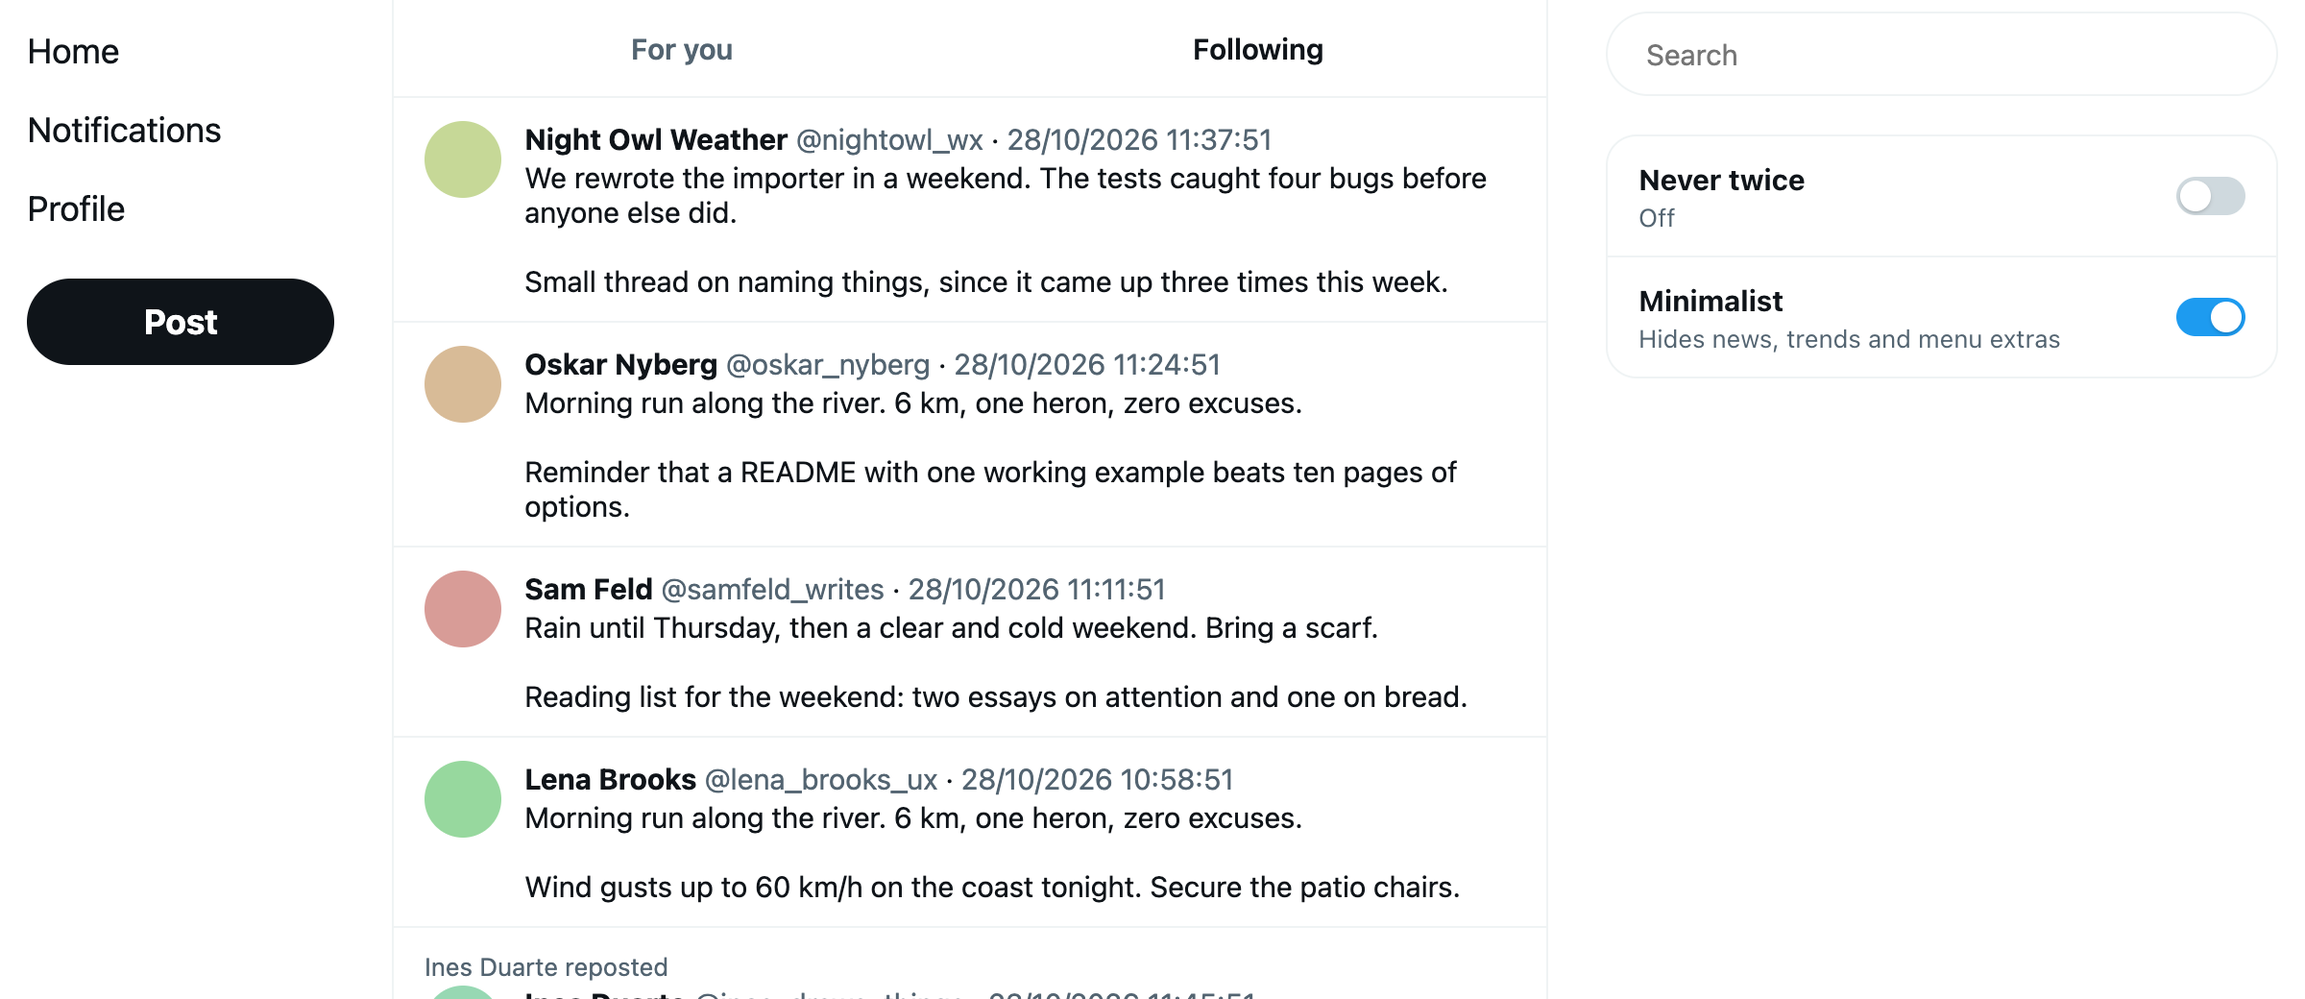
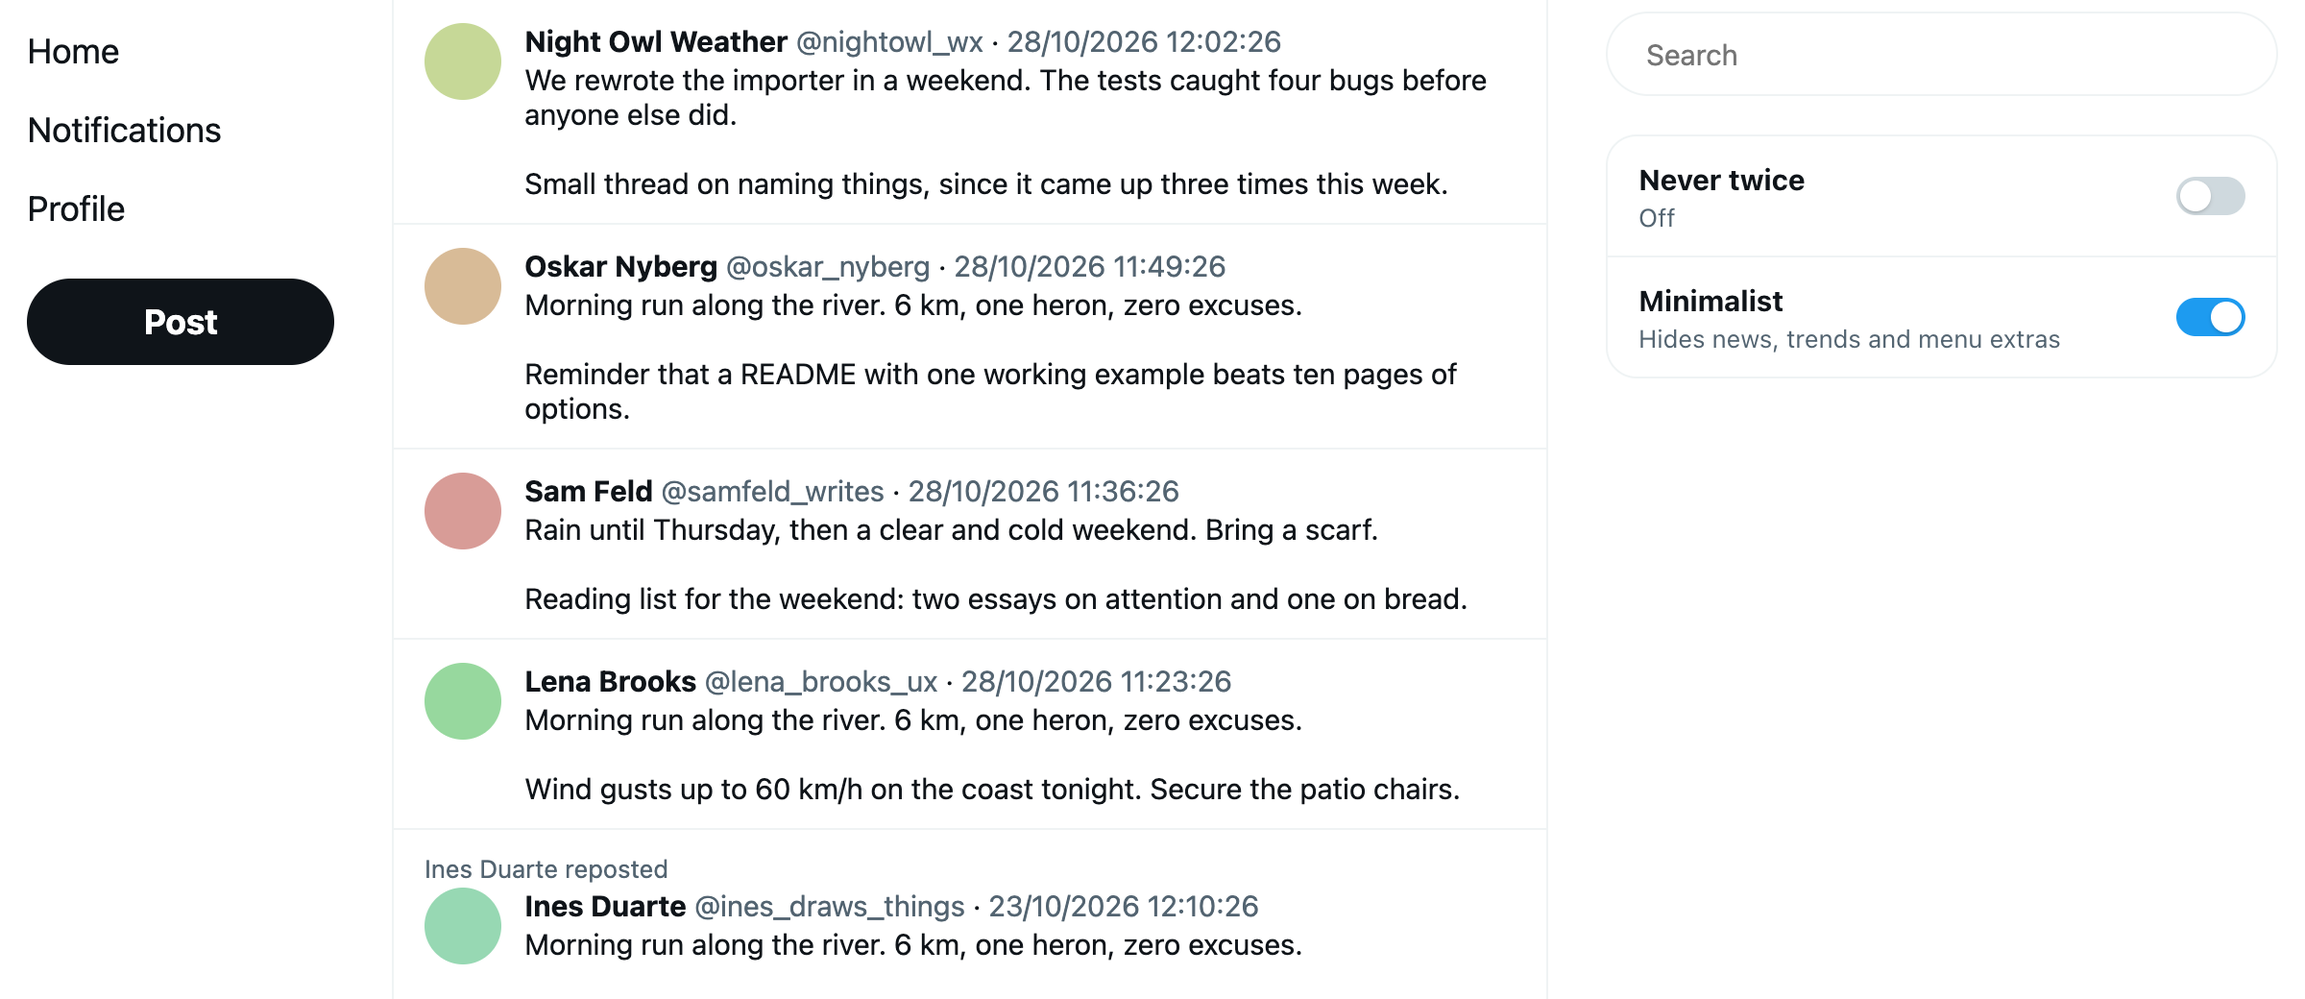
Minimalist hides Home's tab bar and keeps Home on Following
With Minimalist on, Home's tab bar (For you, Following, pinned lists, +)
is hidden before it is painted, and Following is clicked when another tab
is open, before X draws a post; X then remembers Following. The bar is
found by size, so a narrow window keeps X's top bar.

A copy that steps aside no longer throws when another tab changes the
switches.

Changed region(s): [[0.1875, 0.4615, 0.625, 1.0], [0.1875, 0.0, 0.6562, 0.4308], [0.4375, 0.9846, 0.5312, 1.0]]

diff --git a/dev/x-mock.html b/dev/x-mock.html
@@ -19,9 +19,16 @@
   [data-testid=primaryColumn] { width: 600px; min-height: 100vh; border-left: 1px solid var(--line); border-right: 1px solid var(--line); }
   [data-testid=sidebarColumn] { width: 350px; padding-top: 6px; }
   .sticky { position: sticky; top: 0; }
-  .tabs { display: flex; border-bottom: 1px solid var(--line); position: sticky; top: 0; background: var(--bg); z-index: 1; }
-  .tabs [role=tab] { flex: 1; text-align: center; padding: 16px; font-weight: 600; color: var(--muted); }
-  .tabs [aria-selected=true] { color: var(--fg); }
+  .head { position: sticky; top: 0; z-index: 1; }
+  .head .blur { position: absolute; inset: 0; background: color-mix(in srgb, var(--bg) 85%, transparent); backdrop-filter: blur(12px); }
+  .head .top { position: relative; height: 53px; display: flex; align-items: center; justify-content: center; font-size: 22px; }
+  .tabsrow { position: relative; display: flex; align-items: center; border-bottom: 1px solid var(--line); }
+  .tabsrow .fill { flex: 1; }
+  [role=tablist] { display: flex; }
+  [role=presentation] { flex: 1; }
+  [role=tab] { display: block; text-align: center; padding: 16px; font-weight: 600; color: var(--muted); text-decoration: none; }
+  [role=tab][aria-selected=true] { color: var(--fg); }
+  .manage button { all: unset; padding: 0 16px; font-size: 22px; color: var(--muted); cursor: pointer; }
   [data-testid=cellInnerDiv] { border-bottom: 1px solid var(--line); padding: 12px 16px; }
   article { display: flex; gap: 12px; }
   .av { width: 40px; height: 40px; border-radius: 50%; background: var(--line); flex: none; }
@@ -58,10 +65,11 @@
     <button data-testid="SideNav_AccountSwitcher_Button" aria-label="Account menu">You</button>
   </header>
   <main data-testid="primaryColumn">
-    <div role="tablist" class="tabs"><a role="tab" aria-selected="false">For you</a><a role="tab" aria-selected="true">Following</a></div>
+    <div aria-label="Home timeline" id="home">
     <div id="list"></div>
     <div id="sentinel" style="height: 1px"></div>
-    <div id="spinner" class="end">Loading…</div>
+    <div id="spinner" class="end" role="progressbar">Loading…</div>
+    </div>
   </main>
   <div data-testid="sidebarColumn"><div class="sticky"><div aria-label="Trending"><div id="side">
     <div style="position: fixed; top: 0; width: 350px; padding-top: 6px; background: var(--bg); z-index: 2"><div><form role="search"><input placeholder="Search"></form></div></div>
@@ -95,7 +103,42 @@
     side.insertBefore(t.cloneNode(true), wtf);
     t.remove();
   }, 1200);
-  const M = (window.__mock = { entries: [], atBottom: false, loading: false, requests: 0, inserted: 0, removed: 0 });
+  const M = (window.__mock = { entries: [], atBottom: false, loading: false, requests: 0, inserted: 0, removed: 0, ops: [], gen: 0 });
+  // Home's tab bar, as X draws it a moment after load: the open tab is the one
+  // X remembers (For you, unless you picked Following). Pinned lists would come
+  // after the two. ?narrow=1 adds X's top bar above the tabs, as on a phone.
+  M.tab = localStorage.getItem("mock.tab") || "following";
+  const narrow = new URLSearchParams(location.search).has("narrow");
+  setTimeout(() => {
+    const head = document.createElement("div");
+    head.className = "head";
+    head.innerHTML = `<div class="blur"></div><div>${narrow ? '<div class="top">𝕏</div>' : ""}<div class="tabsrow"><div class="fill">
+      <nav role="navigation" aria-live="polite"><div><div data-testid="ScrollSnap-SwipeableList"><div role="tablist" data-testid="ScrollSnap-List">
+        <div role="presentation"><a href="/home" role="tab" aria-selected="false"><span>For you</span></a></div>
+        <div role="presentation"><a href="/home" role="tab" aria-selected="false"><span>Following</span></a></div>
+        <div role="presentation"><a href="/home" role="tab" aria-selected="false"><span>A pinned list</span></a></div>
+      </div></div></div></nav></div>
+      <div class="manage"><button aria-label="Manage tabs">+</button></div></div></div>`;
+    const tabs = [...head.querySelectorAll("[role=tab]")];
+    const show = () => tabs.forEach((t, i) => t.setAttribute("aria-selected", String(["for-you", "following", "list"][i] === M.tab)));
+    tabs.forEach((t, i) => t.addEventListener("click", (e) => {
+      e.preventDefault();
+      const tab = ["for-you", "following", "list"][i];
+      if (tab === M.tab) return;
+      M.tab = tab;
+      localStorage.setItem("mock.tab", tab);
+      show();
+      // A new timeline: whatever the old one still has in flight is dropped.
+      M.gen++;
+      M.entries = [];
+      M.atBottom = false;
+      M.loading = false;
+      render();
+      first();
+    }));
+    show();
+    document.getElementById("home").prepend(head);
+  }, 40);
 
   // Like X's HttpClient: open, timeout, credentials, headers (with a fresh
   // transaction id), onreadystatechange set before send, POST body for Following.
@@ -105,7 +148,9 @@
       // X's network monitoring reads every response first, in its own listener.
       xhr.addEventListener("load", () => (M.peeked = (M.peeked || 0) + (xhr.responseText ? 1 : 0)));
       const variables = { count: 20, includePromotedContent: true, latestControlAvailable: true, requestContext: "launch", seenTweetIds: [], ...(cursor ? { cursor } : {}) };
-      xhr.open("POST", location.origin + "/i/api/graphql/MOCKqid/HomeLatestTimeline");
+      const op = M.tab === "for-you" ? "HomeTimeline" : "HomeLatestTimeline";
+      M.ops.push(op);
+      xhr.open("POST", location.origin + "/i/api/graphql/MOCKqid/" + op);
       xhr.timeout = 0;
       xhr.withCredentials = true;
       const headers = { authorization: "Bearer mock", "content-type": "application/json", "x-client-transaction-id": "tid-" + Math.random().toString(36).slice(2), "x-twitter-active-user": "yes" };
@@ -148,7 +193,7 @@
     const u = o.core.user_results.result.legacy;
     const ctx = o !== t ? `<div class="ctx">${esc(t.core.user_results.result.legacy.name)} reposted</div>` : ic.promotedMetadata ? `<div class="ctx">Ad</div>` : "";
     const hue = [...u.screen_name].reduce((h, c) => (h * 31 + c.charCodeAt(0)) % 360, 7);
-    return `<div data-testid="cellInnerDiv">${ctx}<article data-testid="tweet" tabindex="0"><div class="av" style="background: hsl(${hue} 45% 72%)"></div><div style="flex:1">
+    return `<div data-testid="cellInnerDiv" data-tab="${M.tab}">${ctx}<article data-testid="tweet" tabindex="0"><div class="av" style="background: hsl(${hue} 45% 72%)"></div><div style="flex:1">
       <div class="meta" data-testid="User-Name"><b>${esc(u.name)}</b> <span class="h">@${esc(u.screen_name)}</span> · <a href="/${esc(u.screen_name)}/status/${o.rest_id}"><time datetime="${new Date(o.legacy.created_at).toISOString()}">${new Date(o.legacy.created_at).toLocaleString()}</time></a></div>
       <div class="txt" data-testid="tweetText">${esc(o.legacy.full_text)}</div></div></article></div>`;
   }
@@ -176,8 +221,11 @@
     if (M.loading || M.atBottom || !document.querySelector("article")) return;
     const c = bottomCursor();
     if (!c) return;
+    const gen = M.gen;
     M.loading = true;
-    apply(await api(c.content.value), c);
+    const json = await api(c.content.value);
+    if (gen !== M.gen) return;
+    apply(json, c);
     M.loading = false;
     near();
   }
@@ -186,12 +234,16 @@
     if (r.top < innerHeight + 1200) fetchBottom();
   };
   addEventListener("scroll", near, { passive: true });
-  (async () => {
+  async function first() {
+    const gen = M.gen;
     M.loading = true;
-    apply(await api(null), null);
+    const json = await api(null);
+    if (gen !== M.gen) return;
+    apply(json, null);
     M.loading = false;
     near();
-  })();
+  }
+  first();
 </script>
 </body>
 </html>

diff --git a/extension/src/page.js b/extension/src/page.js
@@ -1,8 +1,9 @@
 /* SubFeed for X: two switches.
 
    "Minimalist" hides X's right column (news, trends, who to follow, footer)
-   except its search bar and these switches, and leaves only Home,
-   Notifications, Profile and Post in the left menu, before X draws them.
+   except its search bar and these switches, leaves only Home,
+   Notifications, Profile and Post in the left menu, and drops Home's tab
+   bar (For you, Following) to keep you on Following, before X draws them.
 
    "Never twice": when it is on, X's home
    timeline (For you and Following) leaves out
@@ -18,7 +19,7 @@
    why it runs in the page's world, at document_start. */
 (() => {
   "use strict";
-  const VERSION = "0.5.0";
+  const VERSION = "0.6.0";
   const HOUR = 3600e3;
   const MAX_AGE = 72 * HOUR;
   const FORGET = 14 * 24 * HOUR; // read posts are remembered this long
@@ -52,13 +53,16 @@
       localStorage.setItem(KEY, JSON.stringify(S));
     } catch {}
   }
+  let running = false; // false in a copy that steps aside (see below)
   function adopt() {
     const disk = read();
     S.on = disk.on;
     S.min = disk.min;
     Object.assign(S.seen, disk.seen);
     minimal();
+    if (!running) return;
     paint();
+    homeTabs();
   }
   addEventListener("storage", (e) => e.key === KEY && adopt()); // another tab
   addEventListener("pagehide", () => saveTimer && save());
@@ -81,6 +85,7 @@
     html[data-subfeed-min] subfeed-switch ~ *,
     html[data-subfeed-min] header[role="banner"] h1,
     html[data-subfeed-min] [data-testid="SideNav_AccountSwitcher_Button"],
+    html[data-subfeed-min] [data-subfeed-tabs],
     html[data-subfeed-min] ${MENU} :is(a, button):not(${KEEP}) { display: none !important; }
   `);
   function minimal() {
@@ -105,6 +110,7 @@
     return;
   }
   Object.defineProperty(window, "__subfeed", { value: VERSION });
+  running = true;
 
   // ---------- the filter
   const stats = { responses: 0, read: 0, old: 0 };
@@ -554,6 +560,7 @@
   function toggleMin() {
     save({ min: !S.min });
     minimal();
+    homeTabs();
     paint();
     record();
   }
@@ -613,7 +620,10 @@
   let column = null;
   let layoutTimer = 0;
   const columnObs = new MutationObserver(() => safely(placeCard));
-  new MutationObserver(() => column?.isConnected || safely(placeCard)).observe(document, { childList: true, subtree: true });
+  new MutationObserver(() => {
+    if (!column?.isConnected) safely(placeCard);
+    if (S.min && !(tabsDone && tabBar?.isConnected)) safely(homeTabs);
+  }).observe(document, { childList: true, subtree: true });
   function safely(fn) {
     try {
       fn();
@@ -639,13 +649,53 @@
     paint();
     record();
   }
+  // ---------- Minimalist on Home: X's tab bar (For you, Following, +) is
+  // hidden, and Following is the timeline shown. X remembers which tab was
+  // last open, so Following is clicked once, as the bar comes in (before it
+  // is painted, and before X has posts to draw), and X opens on it after that.
+  let tabBar = null;
+  let tabsDone = false;
+  let tabClick = 0;
+  function homeTabs() {
+    tabsDone = false;
+    if (!S.min || location.pathname !== "/home") return;
+    const list = document.querySelector('[data-testid="primaryColumn"] [role="tablist"]');
+    if (!list) return;
+    if (!tabBar?.isConnected || !tabBar.contains(list)) {
+      tabBar = barOf(list);
+      tabBar?.setAttribute("data-subfeed-tabs", "");
+    }
+    // For you and Following always come first; pinned lists can only follow.
+    const following = list.querySelector('[role="tab"][data-pinned-timeline="following"]') || list.querySelectorAll('[role="tab"]')[1];
+    if (!following) return;
+    if (following.getAttribute("aria-selected") === "true") return (tabsDone = !!tabBar);
+    if (Date.now() - tabClick < 1000) return;
+    tabClick = Date.now();
+    following.click();
+  }
+  // The bar: the tab list's highest ancestor no taller than the list (and its
+  // border). That is the whole header on a wide window, and only the tab row
+  // under X's top bar on a narrow one. Never anything holding posts.
+  function barOf(list) {
+    const height = list.getBoundingClientRect().height;
+    if (!height) return null;
+    let bar = list;
+    for (let up = 0; up < 12; up++) {
+      const parent = bar.parentElement;
+      if (!parent || parent.matches('[data-testid="primaryColumn"]') || parent.querySelector('section, [role="progressbar"], [data-testid="cellInnerDiv"]')) break;
+      if (parent.getBoundingClientRect().height > height + 4) break;
+      bar = parent;
+    }
+    return bar;
+  }
+
   // Written only by a tab that can see them (background tabs draw neither),
   // so another X tab never clears what was seen.
   let recorded = "";
   function record() {
     layoutTimer ||= setTimeout(() => {
       layoutTimer = 0;
-      const seen = { column: layout(), menu: menu() };
+      const seen = { column: layout(), menu: menu(), tabs: tabs() };
       const next = JSON.stringify(seen);
       if ((!seen.column && !seen.menu) || next === recorded) return;
       recorded = next;
@@ -665,6 +715,16 @@
     });
     const h = (sel) => Math.round(document.querySelector(sel)?.getBoundingClientRect().height ?? -1);
     return `logo/${h('header[role="banner"] h1')} ${items.join(" ")} post/${h('[data-testid="SideNav_NewTweet_Button"]')} account/${h('[data-testid="SideNav_AccountSwitcher_Button"]')}`;
+  }
+
+  // Home's tabs, for the log: which one is open, and the hidden bar's height.
+  function tabs() {
+    const list = location.pathname === "/home" && document.querySelector('[data-testid="primaryColumn"] [role="tablist"]');
+    if (!list) return "";
+    const all = [...list.querySelectorAll('[role="tab"]')];
+    let up = 0;
+    for (let el = list; tabBar && el && el !== tabBar; el = el.parentElement) up++;
+    return `tabs/${all.length} open/${all.findIndex((t) => t.getAttribute("aria-selected") === "true")} bar/${tabBar?.contains(list) ? up : -1}/${Math.round(tabBar?.getBoundingClientRect().height ?? -1)}`;
   }
 
   // What the column holds, for the log: each block's kind and height (0 = hidden).
@@ -717,6 +777,7 @@
       minimal();
       scan();
       placeCard();
+      homeTabs();
       caughtUp();
       record();
     });

diff --git a/README.md b/README.md
@@ -3,9 +3,9 @@
 A browser extension that adds two switches to X (Twitter) on the web.
 
 - **Never twice** hides the posts you have already read, and anything older than 72 hours, from your Home timeline.
-- **Minimalist** hides the news, trends, "who to follow" and the footer in the right column, and every left-menu item except Home, Notifications, Profile and Post.
+- **Minimalist** hides the news, trends, "who to follow" and the footer in the right column, every left-menu item except Home, Notifications, Profile and Post, and Home's tab bar, so Home always shows Following.
 
-![X with Minimalist on: three menu items, the Post button, the timeline, and the two switches under the search bar](docs/minimalist.png)
+![X with Minimalist on: three menu items, the Post button, the Following timeline with no tab bar, and the two switches under the search bar](docs/minimalist.png)
 
 The switches sit at the top of X's right column, under the search bar. That's all the interface there is: no popup, no settings page, no account.
 
@@ -47,7 +47,10 @@ Firefox and Safari are not supported yet. If you want to port it, see [CONTRIBUT
 - The switch's subtitle counts what it hid in this tab: "Hid 54 read · 7 older than 72 h".
 - Conversations stay whole while any post in them is new to you. Ads are left alone.
 
-**Minimalist** applies at once, with no reload. With it on, X's logo, the account button and the **More** menu are hidden too. Turn Minimalist off to switch accounts or reach Settings, or go straight to [x.com/settings](https://x.com/settings).
+**Minimalist** applies at once, with no reload. With it on:
+
+- Home has no tab bar (For you, Following, pinned lists, +) and always shows Following. If X had For you or a list open, Minimalist switches to Following before X draws a post, and X remembers that choice.
+- X's logo, the account button and the **More** menu are hidden too. Turn Minimalist off to switch accounts, open a pinned list or reach Settings, or go straight to [x.com/settings](https://x.com/settings).
 
 When the browser window is too narrow, X drops its right column, and the switches go with it. Widen the window to see them again.
 
@@ -63,7 +66,7 @@ To start over, remove those keys in DevTools (Application, Local storage, `https
 
 ## How it works
 
-X's web app loads timelines with `XMLHttpRequest` and reads `responseText`. The extension runs in the page itself at `document_start` and wraps those reads for the `HomeTimeline` and `HomeLatestTimeline` GraphQL calls, removing read and old posts before X's code sees them. Minimalist is one stylesheet, keyed to X's `data-testid` attributes and links, that the extension adds to the page before X draws it.
+X's web app loads timelines with `XMLHttpRequest` and reads `responseText`. The extension runs in the page itself at `document_start` and wraps those reads for the `HomeTimeline` and `HomeLatestTimeline` GraphQL calls, removing read and old posts before X's code sees them. Minimalist is one stylesheet, keyed to X's `data-testid` attributes and links, that the extension adds to the page before X draws it, plus one click on Home's Following tab when another tab is open.
 
 All of it is in [`extension/src/page.js`](extension/src/page.js), about 740 commented lines with no dependencies and no build step.
 

diff --git a/CONTRIBUTING.md b/CONTRIBUTING.md
@@ -41,7 +41,7 @@ To try a change on the real X, load the `extension` folder unpacked (see the REA
 node test/run.mjs
 ```
 
-It starts the stand-in on a free port and a headless browser with a throwaway profile, runs 37 end-to-end checks and prints `ALL PASS` (or what failed). It takes about a minute. `HEADED=1` shows the browser, `CHROME=/path/to/chrome` picks the browser, and `SHOTS=1` also refreshes the screenshots in `docs/`.
+It starts the stand-in on a free port and a headless browser with a throwaway profile, runs 47 end-to-end checks and prints `ALL PASS` (or what failed). It takes about a minute. `HEADED=1` shows the browser, `CHROME=/path/to/chrome` picks the browser, and `SHOTS=1` also refreshes the screenshots in `docs/`.
 
 The same run happens on every pull request.
 
@@ -52,6 +52,7 @@ X ships its web app often. The usual breakages:
 - **Never twice stops filtering** (the switch says "Not filtering: X changed how it loads posts"). Check the timeline requests in DevTools' Network tab: the operation names (`HomeTimeline`, `HomeLatestTimeline`), the response shape (`data.home.home_timeline_urt.instructions`), or the way X reads the response (`XMLHttpRequest` and `responseText`) may have changed.
 - **Minimalist misses a block or a menu item.** X renamed a `data-testid` or a link. The selectors are at the top of `page.js` (`KEEP`, `MENU` and the stylesheet under them).
 - **The switches don't appear.** X changed its right column; see `spot()` in `page.js`.
+- **Home's tab bar shows, or Minimalist doesn't land on Following.** X changed its tabs; see `homeTabs()` and `barOf()` in `page.js`.
 
 `localStorage["subfeed.log"]` and `localStorage["subfeed.layout"]` on x.com show what the extension saw. Paste them into an issue; they hold no post text or user names.
 

diff --git a/docs/releases/v0.6.0.md b/docs/releases/v0.6.0.md
@@ -1,0 +1,3 @@
+- **Minimalist** now also hides Home's tab bar (For you, Following, pinned lists) and always shows Following. If X had another tab open, Minimalist switches to Following before X draws a post, and X remembers it. Turning Minimalist on or off still needs no reload.
+
+To update a zip install, download `subfeed-for-x-0.6.0.zip` below and load it in place of the old folder. A git clone updates with `git pull`.
